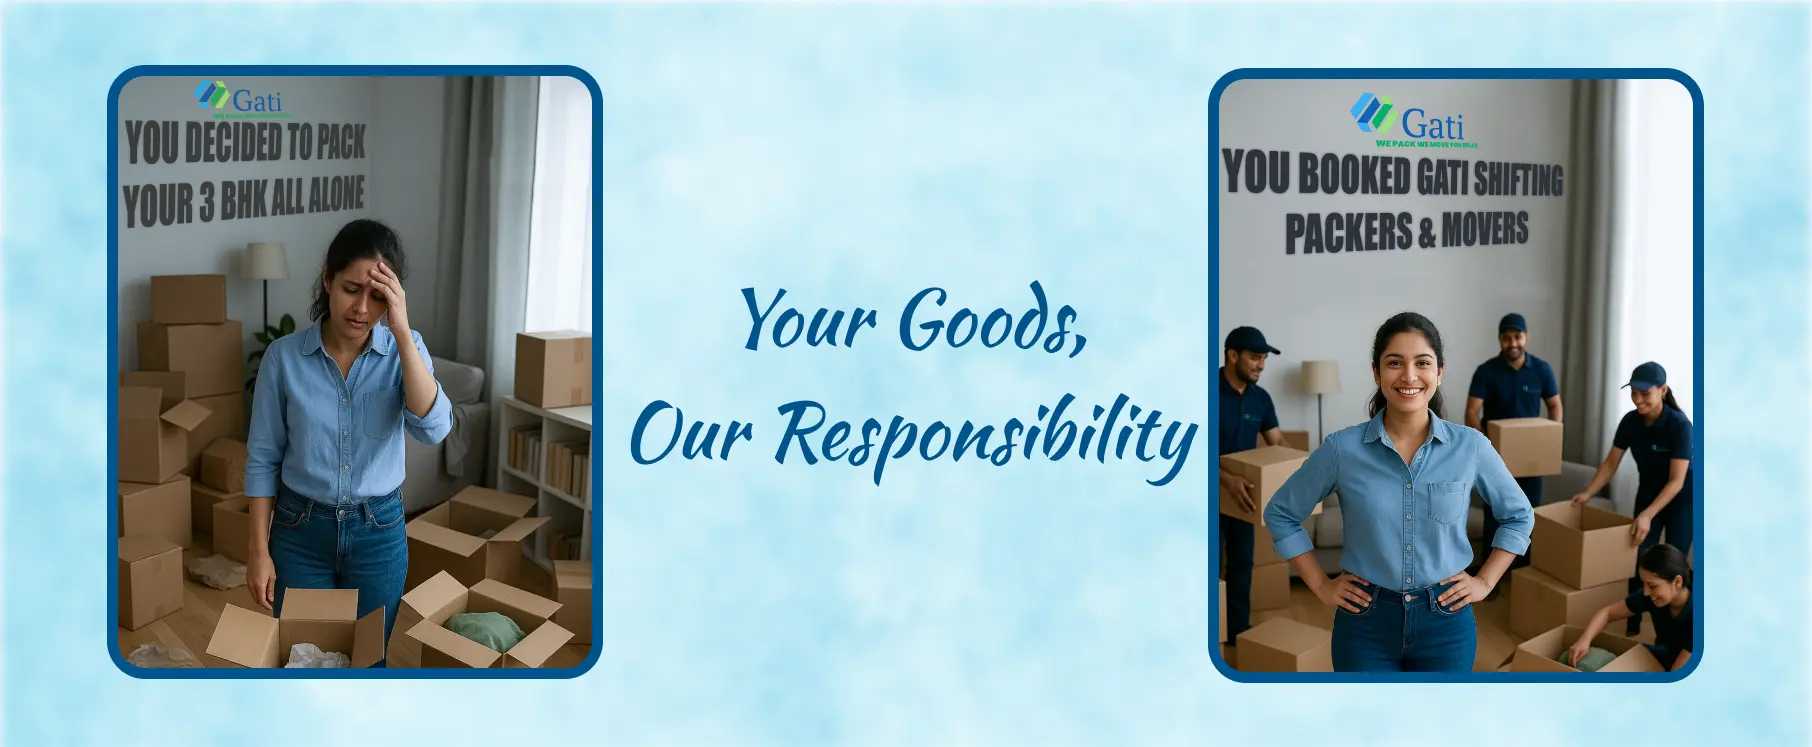
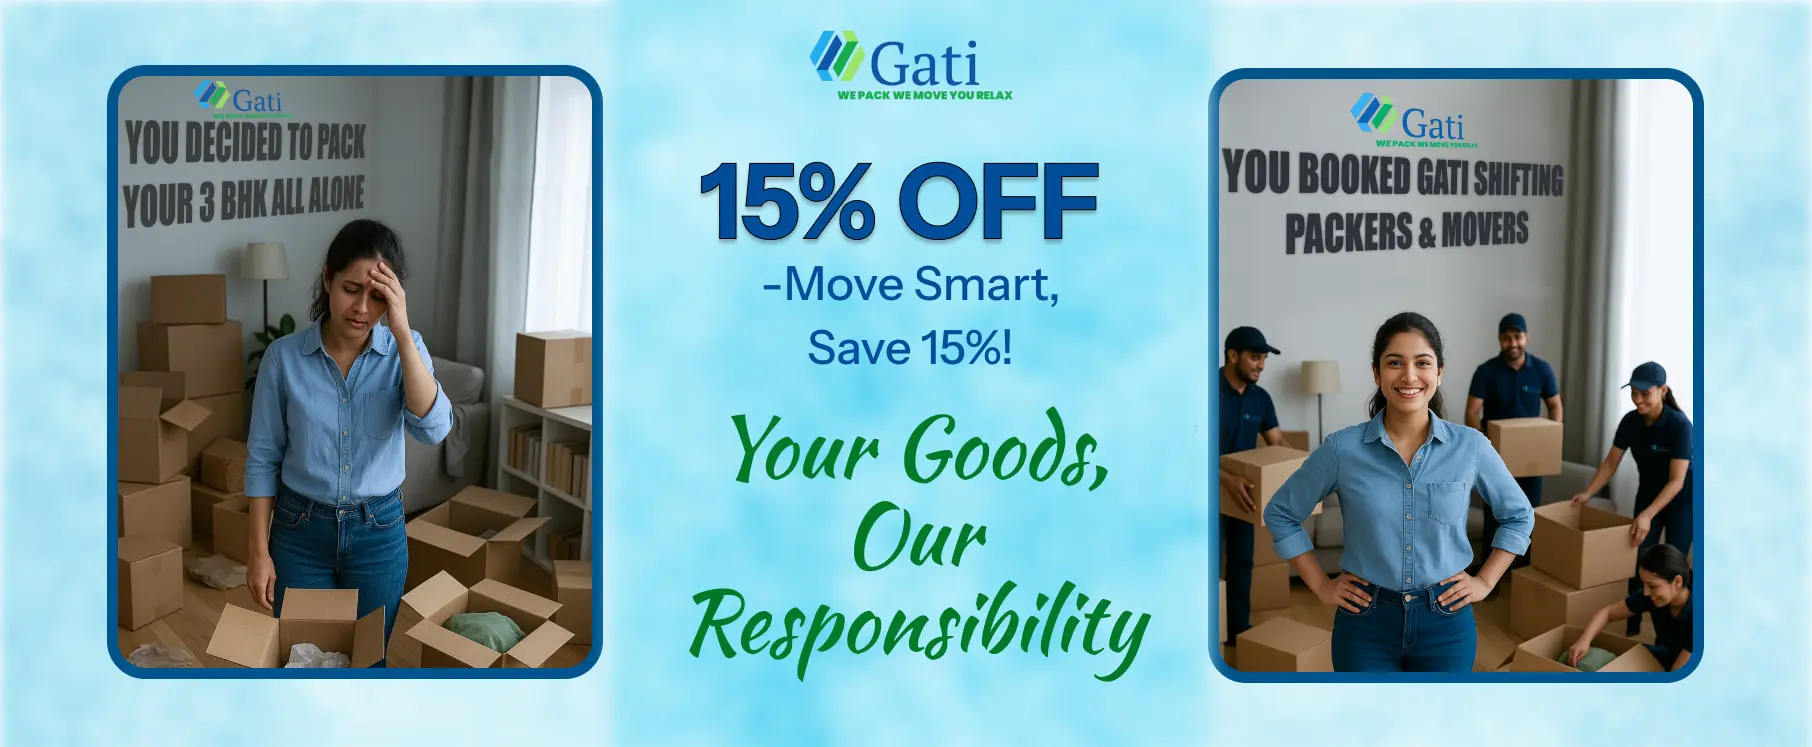
complete 5 page and change slider image

diff --git a/src/pages/city-wise-pages-data.tsx b/src/pages/city-wise-pages-data.tsx
@@ -25,46 +25,51 @@ import Mumbai from "../assets/CityPages/mumbai.webp"
 import Allahabad from "../assets/CityPages/prayagraj.webp"
 import Alwar from "../assets/CityPages/rajasthan.webp"
 import Ambala from "../assets/CityPages/ambala.webp"
+import Vadodara from "../assets/CityPages/vadodara.webp"
+import Bikaner from "../assets/CityPages/bikaner.webp"
+import Bhubaneswar from "../assets/CityPages/bhubaneswr.webp"
+import Chennai from "../assets/CityPages/chennai.webp"
+import Kochi from "../assets/CityPages/kochi.webp"
 
 export const pagesData = [
-  { slug: "agra", city: "Agra", img: agraImg  },
-  { slug: "ankleshwar", city: "Ankleshwar", img: ankleshwarImg},
+  { slug: "agra", city: "Agra", img: agraImg, offer: "15%"  },
+  { slug: "ankleshwar", city: "Ankleshwar", img: ankleshwarImg, offer: "15%"},
   { slug: "bhiwandi", city: "Bhiwandi", img: BhiwandiImg, metaDetails: {
     title: "Packers and Movers in Bhiwandi | Gati Shifting Packers",
     description: "Hire trusted Packers and Movers in Bhiwandi with Gati Shifting Packers. We offer safe, affordable, and professional relocation services for homes, offices, and vehicles in Bhiwandi.",
     keywords: "Packers and Movers in Bhiwandi, Gati Shifting Packers Bhiwandi, local movers Bhiwandi, home shifting services Bhiwandi, office relocation Bhiwandi, trusted packers movers Bhiwandi, affordable relocation services Bhiwandi, professional movers Bhiwandi, household shifting Bhiwandi, door-to-door moving services Bhiwandi, packing and unpacking Bhiwandi, vehicle transport Bhiwandi, safe goods transportation Bhiwandi, best moving company Bhiwandi, packers and movers in Bhiwandi, movers and packers in Bhiwandi, best packers and movers in Bhiwandi, top packers and movers Bhiwandi, affordable packers and movers Bhiwandi, cheap packers and movers Bhiwandi, local packers and movers in Bhiwandi, trusted packers and movers Bhiwandi, home shifting services in Bhiwandi, house relocation Bhiwandi, office shifting services in Bhiwandi, industrial packers and movers Bhiwandi, factory relocation services Bhiwandi, car transport in Bhiwandi, bike transport Bhiwandi, vehicle shifting Bhiwandi, household goods shifting Bhiwandi, furniture movers Bhiwandi, packing and moving services in Bhiwandi, movers and packers near me Bhiwandi, relocation company in Bhiwandi, moving company Bhiwandi, verified packers and movers Bhiwandi, IBA approved packers and movers Bhiwandi, packers and movers Bhiwandi price, packers and movers Bhiwandi charges, packers and movers Bhiwandi cost, packers and movers Bhiwandi to Mumbai, packers and movers Bhiwandi to Pune, packers and movers Bhiwandi to Nashik, packers and movers Bhiwandi to Thane, reliable packers and movers Bhiwandi, professional packers and movers Bhiwandi, door to door packers and movers Bhiwandi, packers and movers for local shifting in Bhiwandi, packers and movers for long distance in Bhiwandi, best relocation services Bhiwandi, loading and unloading services Bhiwandi, packing and unpacking services Bhiwandi, movers packers Bhiwandi MIDC, industrial shifting services Bhiwandi, warehouse shifting Bhiwandi, logistics services Bhiwandi, transport services Bhiwandi, relocation company Bhiwandi Maharashtra, best moving company Bhiwandi, quick packers and movers Bhiwandi, 24x7 packers and movers Bhiwandi, mini truck for shifting Bhiwandi, tempo service Bhiwandi, household relocation services Bhiwandi, home packers Bhiwandi, moving experts Bhiwandi, cost-effective packers and movers Bhiwandi, professional relocation company Bhiwandi, budget-friendly movers Bhiwandi, intercity movers Bhiwandi, long-distance packers and movers Bhiwandi, shifting services Bhiwandi, goods transport Bhiwandi, safe relocation services Bhiwandi, packers movers with insurance Bhiwandi, local household movers Bhiwandi, best shifting company Bhiwandi, trusted relocation services Bhiwandi.",
     ogDescription: "Looking for reliable Packers and Movers in Bhiwandi? Gati Shifting Packers provides secure and timely relocation with professional handling and top-quality packing.",
     twitterDescription: "Safe, professional, and affordable Packers and Movers in Bhiwandi by Gati Shifting Packers. Experience smooth, stress-free relocation services today!"
-  }  },
-  { slug: "calicut", city: "Calicut", img: CalicutImg },
-  { slug: "cuttack", city: "Cuttack", img: CuttackImg },
-  { slug: "gandhidham", city: "Gandhidham", img: GandhidhamImg },
-  { slug: "guwahati", city: "Guwahati", img: GuwahatiImg },
-  { slug: "hyderabad", city: "Hyderabad", img: HyderabadImg },
-  { slug: "jamshedpur", city: "Jamshedpur", img: JamshedpurImg },
-  { slug: "kolhapur", city: "Kolhapur", img: KolhapurImg },
-  { slug: "lucknow", city: "Lucknow", img: LucknowImg },
-  { slug: "meerut", city: "Meerut", img: MeerutImg },
-  { slug: "ahmedabad", city: "Ahmedabad", img: AhmedabadImg },
-  { slug: "aurangabad", city: "Aurangabad", img: AurangabadImg },
-  { slug: "bhopal", city: "Bhopal", img: BhopalImg },
-  { slug: "chandigarh", city: "Chandigarh", img: ChandigarhImg },
-  { slug: "dehradun", city: "Dehradun", img: DehradunImg },
-  { slug: "ghaziabad", city: "Ghaziabad", img: GhaziabadImg },
-  { slug: "gwalior", city: "Gwalior", img: GwaliorImg },
-  { slug: "indore", city: "Indore", img: Indore },
-  { slug: "jamnagar", city: "Jamnagar", img: Jamnagar },
-  { slug: "kolkata", city: "Kolkata", img: Kolkata },
-  { slug: "ludhiana", city: "Ludhiana", img: Ludhiana  },
-  { slug: "mumbai", city: "Mumbai", img: Mumbai  },
-  { slug: "allahabad", city: "Allahabad", img: Allahabad  },
-  { slug: "alwar", city: "Alwar", img: Alwar  },
-  { slug: "ambala", city: "Ambala", img: Ambala  },
-  { slug: "vadodara", city: "Vadodara" },
-  { slug: "bikaner", city: "Bikaner" },
-  { slug: "bhubaneswar", city: "Bhubaneswar" },
-  { slug: "chennai", city: "Chennai" },
-  { slug: "kochi", city: "Kochi" },
+  }, offer: "15%"  },
+  { slug: "calicut", city: "Calicut", img: CalicutImg, offer: "15%" },
+  { slug: "cuttack", city: "Cuttack", img: CuttackImg, offer: "15%" },
+  { slug: "gandhidham", city: "Gandhidham", img: GandhidhamImg, offer: "15%" },
+  { slug: "guwahati", city: "Guwahati", img: GuwahatiImg, offer: "15%" },
+  { slug: "hyderabad", city: "Hyderabad", img: HyderabadImg, offer: "15%" },
+  { slug: "jamshedpur", city: "Jamshedpur", img: JamshedpurImg, offer: "15%" },
+  { slug: "kolhapur", city: "Kolhapur", img: KolhapurImg, offer: "10%" },
+  { slug: "lucknow", city: "Lucknow", img: LucknowImg, offer: "10%" },
+  { slug: "meerut", city: "Meerut", img: MeerutImg, offer: "10%" },
+  { slug: "ahmedabad", city: "Ahmedabad", img: AhmedabadImg, offer: "10%" },
+  { slug: "aurangabad", city: "Aurangabad", img: AurangabadImg, offer: "10%" },
+  { slug: "bhopal", city: "Bhopal", img: BhopalImg, offer: "10%" },
+  { slug: "chandigarh", city: "Chandigarh", img: ChandigarhImg, offer: "15%" },
+  { slug: "dehradun", city: "Dehradun", img: DehradunImg, offer: "15%" },
+  { slug: "ghaziabad", city: "Ghaziabad", img: GhaziabadImg, offer: "15%" },
+  { slug: "gwalior", city: "Gwalior", img: GwaliorImg, offer: "15%" },
+  { slug: "indore", city: "Indore", img: Indore, offer: "15%" },
+  { slug: "jamnagar", city: "Jamnagar", img: Jamnagar, offer: "15%" },
+  { slug: "kolkata", city: "Kolkata", img: Kolkata, offer: "15%" },
+  { slug: "ludhiana", city: "Ludhiana", img: Ludhiana, offer: "15%"  },
+  { slug: "mumbai", city: "Mumbai", img: Mumbai, offer: "15%"  },
+  { slug: "allahabad", city: "Allahabad", img: Allahabad, offer: "15%"  },
+  { slug: "alwar", city: "Alwar", img: Alwar, offer: "15%"  },
+  { slug: "ambala", city: "Ambala", img: Ambala, offer: "15%"  },
+  { slug: "vadodara", city: "Vadodara", img: Vadodara, offer: "20%" },
+  { slug: "bikaner", city: "Bikaner", img: Bikaner, offer: "20%" },
+  { slug: "bhubaneswar", city: "Bhubaneswar", img: Bhubaneswar, offer: "20%" },
+  { slug: "chennai", city: "Chennai", img: Chennai, offer: "20%" },
+  { slug: "kochi", city: "Kochi", img: Kochi, offer: "20%" },
   { slug: "delhi", city: "Delhi" },
   { slug: "dwarka", city: "Dwarka" },
   { slug: "faridabad", city: "Faridabad" },

diff --git a/src/components/Footer.tsx b/src/components/Footer.tsx
@@ -42,11 +42,11 @@ const Footer = () => {
                         <li><Link to="/city/allahabad">Packers & Movers Allahabad</Link></li>
                         <li><Link to="/city/alwar">Packers & Movers Alwar</Link></li>
                         <li><Link to="/city/ambala">Packers & Movers Ambala</Link></li>
-                        <li><Link to="/">Packers & Movers Vadodara</Link></li>
-                        <li><Link to="/">Packers & Movers Bikaner</Link></li>
-                        <li><Link to="/">Packers & Movers Bhubaneswar</Link></li>
-                        <li><Link to="/">Packers & Movers Chennai</Link></li>
-                        <li><Link to="/">Packers & Movers Kochi</Link></li>
+                        <li><Link to="/city/vadodara">Packers & Movers Vadodara</Link></li>
+                        <li><Link to="/city/bikaner">Packers & Movers Bikaner</Link></li>
+                        <li><Link to="/city/bhubaneswar">Packers & Movers Bhubaneswar</Link></li>
+                        <li><Link to="/city/chennai">Packers & Movers Chennai</Link></li>
+                        <li><Link to="/city/kochi">Packers & Movers Kochi</Link></li>
                         <li><Link to="/">Packers & Movers Delhi</Link></li>
                         <li><Link to="/">Packers & Movers Dwarka</Link></li>
                         <li><Link to="/">Packers & Movers Faridabad</Link></li>

diff --git a/src/pages/CityPage.tsx b/src/pages/CityPage.tsx
@@ -19,8 +19,9 @@ interface PageProps {
     city: string;
     img?: string;
     metaData?: MetaDataProps;
+    offer?: string;
 }
-const CityPage: React.FC<PageProps> = ({ city, img, metaData }) => {
+const CityPage: React.FC<PageProps> = ({ city, img, metaData, offer }) => {
 
     console.log(img)
     return (
@@ -60,7 +61,7 @@ const CityPage: React.FC<PageProps> = ({ city, img, metaData }) => {
                     <div className="content">
                         <div className="box">
                             <h1>Gati Shifting Packers – Best Packers and Movers in <div className="city-name">{city}</div>
-                                <h3>🎉 Get 15% OFF on Your Next Move 🎉</h3></h1>
+                                <h3>🎉 Get {offer} OFF on Your Next Move 🎉</h3></h1>
 
                             <img src={img} />
                         </div>

diff --git a/src/routes/AppRoute.tsx b/src/routes/AppRoute.tsx
@@ -68,7 +68,7 @@ const AppRoutes = () => {
                     {
                         pagesData.map((page) => (
                             <Route path={`/city/${page.slug}`} element={
-                                <CityPage city={page.city} img={page.img} metaData={page.metaDetails}></CityPage>
+                                <CityPage city={page.city} img={page.img} metaData={page.metaDetails} offer={page.offer}></CityPage>
                             }>
 
                             </Route>
